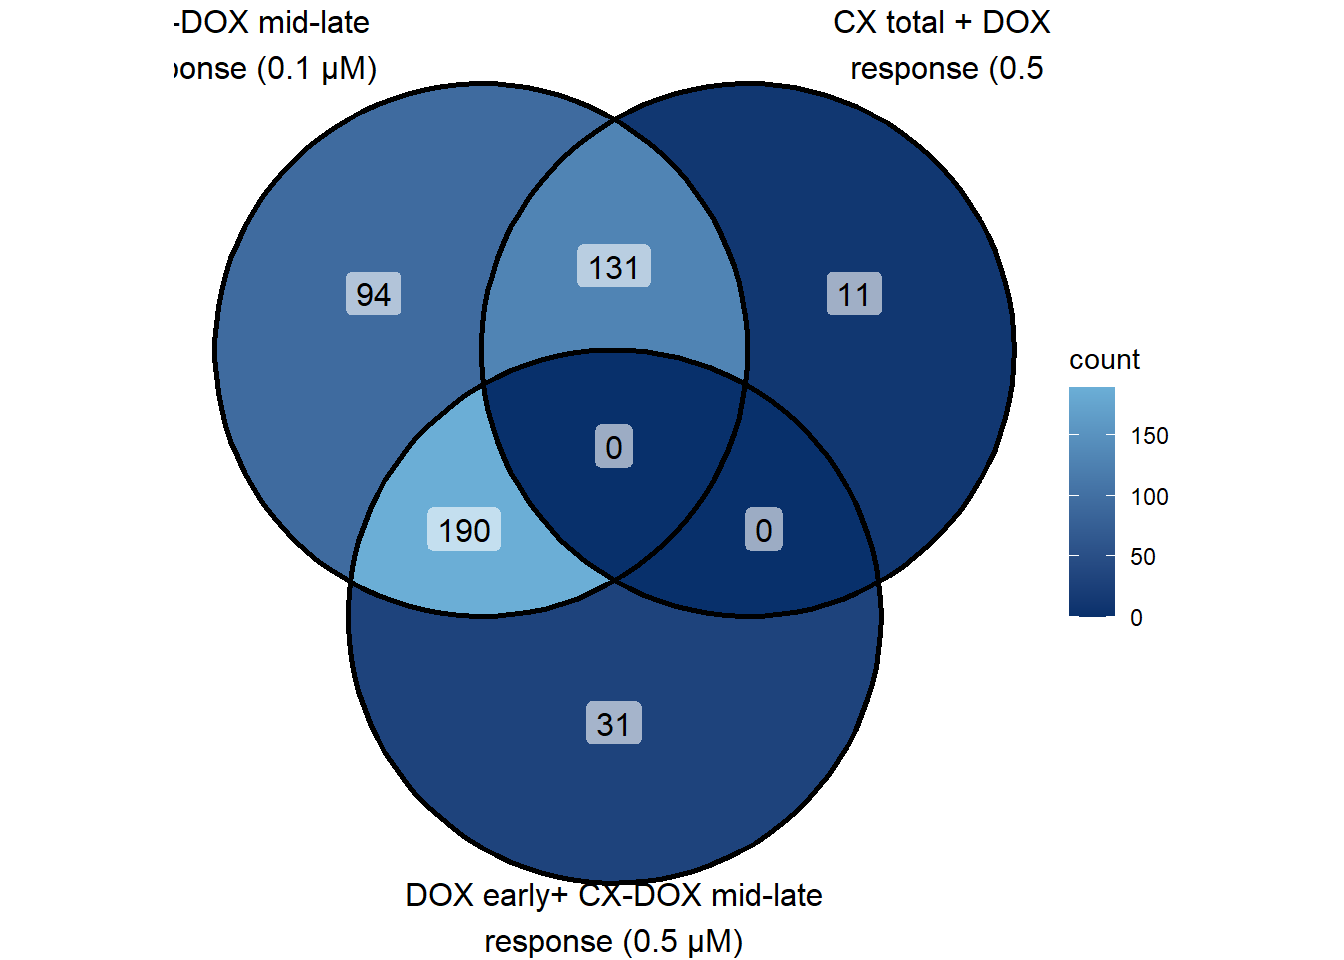
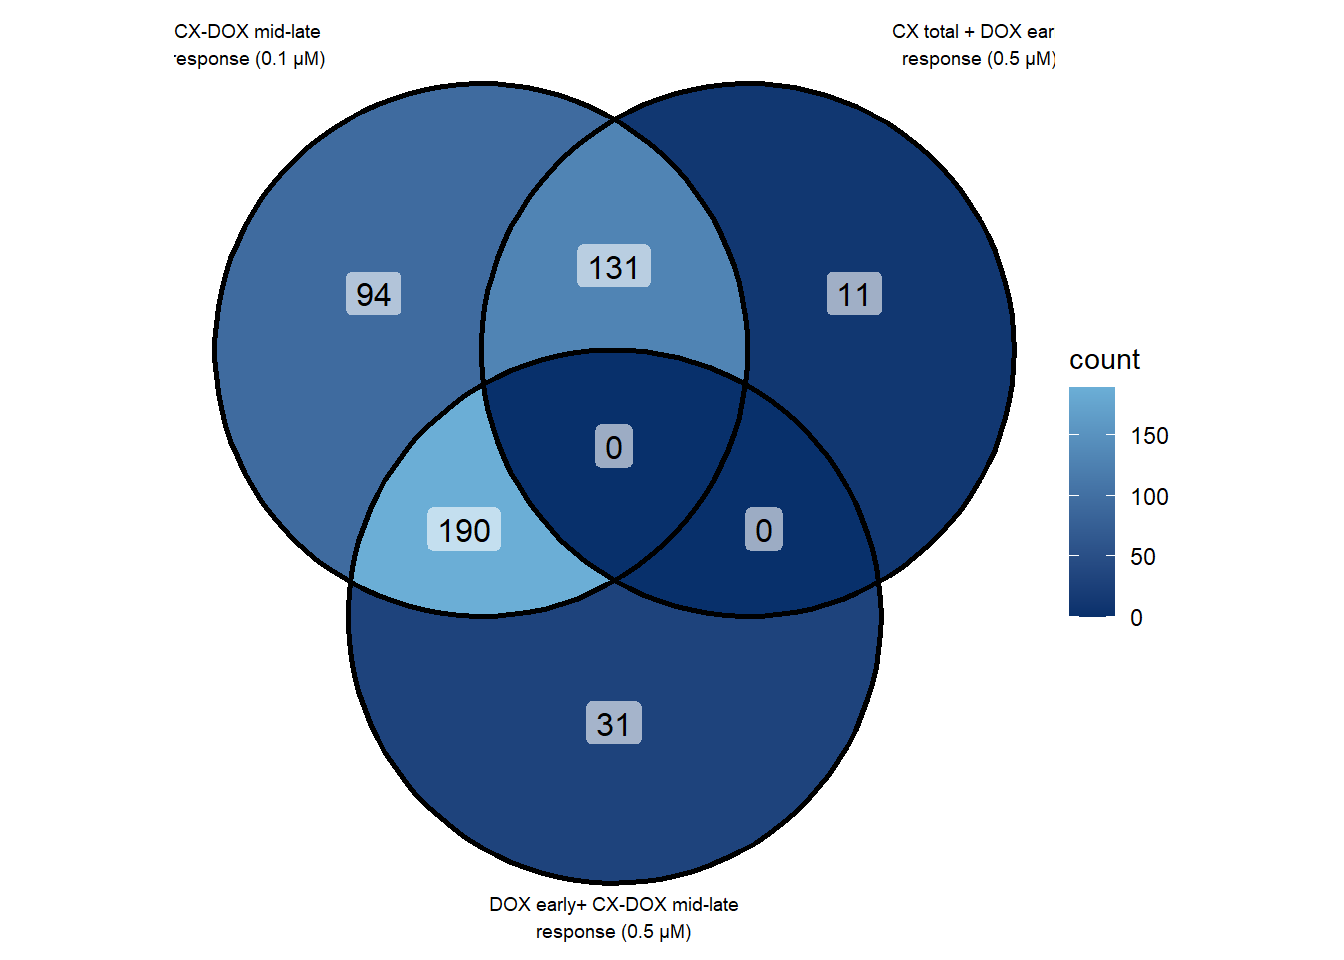
Commit

Changed region(s): [[0.3125, 0.9062, 0.625, 1.0], [0.125, 0.0, 0.2812, 0.0938], [0.625, 0.0, 0.7812, 0.0938]]

diff --git a/docs/Corrmotif_overlap.html b/docs/Corrmotif_overlap.html
@@ -512,15 +512,15 @@ project makes it easier to run your code on other machines.</p>
 <div class="panel panel-default">
 <div class="panel-heading">
 <p class="panel-title">
-<a data-toggle="collapse" data-parent="#workflowr-checks" href="#strongRepositoryversionstrongahrefhttpsgithubcomsayanpaul01CX5461Projecttreea56887202d8df9b0816df4b966d55f223263e84atargetblanka568872a">
+<a data-toggle="collapse" data-parent="#workflowr-checks" href="#strongRepositoryversionstrongahrefhttpsgithubcomsayanpaul01CX5461Projecttree3c161c2b10e8a47df194c209cf0979952e50787ftargetblank3c161c2a">
 <span class="glyphicon glyphicon-ok text-success"
 aria-hidden="true"></span> <strong>Repository version:</strong>
-<a href="https://github.com/sayanpaul01/CX5461_Project/tree/a56887202d8df9b0816df4b966d55f223263e84a" target="_blank">a568872</a>
+<a href="https://github.com/sayanpaul01/CX5461_Project/tree/3c161c2b10e8a47df194c209cf0979952e50787f" target="_blank">3c161c2</a>
 </a>
 </p>
 </div>
 <div
[2 lines of base64/hex data omitted]
 class="panel-collapse collapse">
 <div class="panel-body">
 <p>
@@ -530,7 +530,7 @@ reproducibility.
 </p>
 <p>
 The results in this page were generated with repository version
-<a href="https://github.com/sayanpaul01/CX5461_Project/tree/a56887202d8df9b0816df4b966d55f223263e84a" target="_blank">a568872</a>.
+<a href="https://github.com/sayanpaul01/CX5461_Project/tree/3c161c2b10e8a47df194c209cf0979952e50787f" target="_blank">3c161c2</a>.
 See the <em>Past versions</em> tab to see a history of the changes made
 to the R Markdown and HTML files.
 </p>
@@ -550,7 +550,6 @@ Ignored files:
     Ignored:    .Rproj.user/
     Ignored:    0.1 box.svg
     Ignored:    Rplot04.svg
-    Ignored:    analysis/figure/
 
 Untracked files:
     Untracked:  0.1 density.svg
@@ -618,6 +617,40 @@ Message
 </tr>
 </thead>
 <tbody>
+<tr>
+<td>
+Rmd
+</td>
+<td>
+<a href="https://github.com/sayanpaul01/CX5461_Project/blob/3c161c2b10e8a47df194c209cf0979952e50787f/analysis/Corrmotif_overlap.Rmd" target="_blank">3c161c2</a>
+</td>
+<td>
+sayanpaul01
+</td>
+<td>
+2025-04-10
+</td>
+<td>
+Commit
+</td>
+</tr>
+<tr>
+<td>
+html
+</td>
+<td>
+<a href="https://rawcdn.githack.com/sayanpaul01/CX5461_Project/3c161c2b10e8a47df194c209cf0979952e50787f/docs/Corrmotif_overlap.html" target="_blank">3c161c2</a>
+</td>
+<td>
+sayanpaul01
+</td>
+<td>
+2025-04-10
+</td>
+<td>
+Commit
+</td>
+</tr>
 <tr>
 <td>
 Rmd
@@ -1006,16 +1039,58 @@ venn_list &lt;- list(
   `DOX early+ CX-DOX mid-late\nresponse (0.5 µM)` = prob_5_0.5
 )
 
-# Plot with smaller group name font size
-ggVennDiagram(
+# Build plot object
+p &lt;- ggVennDiagram(
   venn_list,
   label_alpha = 0.6,
-  label = &quot;count&quot;,
-  set_label = ggplot2::geom_text(size = 3)  # &lt;- reduces font size of set labels
+  label = &quot;count&quot;
 ) +
   scale_fill_gradient(low = &quot;#08306B&quot;, high = &quot;#6BAED6&quot;) +
-  theme(legend.position = &quot;right&quot;)</code></pre>
+  theme(legend.position = &quot;right&quot;)
+
+# Manually reduce set label size (layer 3 is usually the set label layer)
+p$layers[[3]]$aes_params$size &lt;- 2.5
+
+# Render the final plot
+p</code></pre>
 <p><img src="figure/Corrmotif_overlap.Rmd/0verlap_CX.-1.png" width="672" style="display: block; margin: auto;" /></p>
+<p>
+<button type="button" class="btn btn-default btn-xs btn-workflowr btn-workflowr-fig" data-toggle="collapse" data-target="#fig-0verlap_CX.-1">
+Past versions of 0verlap_CX.-1.png
+</button>
+</p>
+<div id="fig-0verlap_CX.-1" class="collapse">
+<div class="table-responsive">
+<table class="table table-condensed table-hover">
+<thead>
+<tr>
+<th>
+Version
+</th>
+<th>
+Author
+</th>
+<th>
+Date
+</th>
+</tr>
+</thead>
+<tbody>
+<tr>
+<td>
+<a href="https://github.com/sayanpaul01/CX5461_Project/blob/3c161c2b10e8a47df194c209cf0979952e50787f/docs/figure/Corrmotif_overlap.Rmd/0verlap_CX.-1.png" target="_blank">3c161c2</a>
+</td>
+<td>
+sayanpaul01
+</td>
+<td>
+2025-04-10
+</td>
+</tr>
+</tbody>
+</table>
+</div>
+</div>
 </div>
 <div
 id="overlap-of-go-functions-between-corrmotif-all-and-corrmotif-conc."
